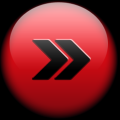
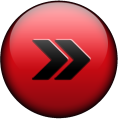
Ajout de la boule rouge

Changed region(s): [[0.0, 0.0, 1.0, 1.0]]

diff --git a/static/css/style.css b/static/css/style.css
@@ -144,10 +144,10 @@ button {  width: auto; overflow: visible; }
 
 body{
   margin: auto;
-	width: 960px;
-	height: 100%;
-	font-family: Helvetica, Helvetica Neue, Arial, sans-serif;
-	color: white;
+  width: 960px;
+  height: 100%;
+  font-family: Helvetica, Helvetica Neue, Arial, sans-serif;
+  color: white;
   background-color: black;
   background-image: url('/static/images/fond.jpg');
   background-repeat: no-repeat;
@@ -171,6 +171,9 @@ header {
   padding-top: 10px;
   text-align: center;
   margin-bottom: 10px;
+  background-image: url('/static/images/boule_rouge.png');
+  background-repeat: no-repeat;
+  background-position: 252px 5px;
 }
 header h2 {
   color: red;
